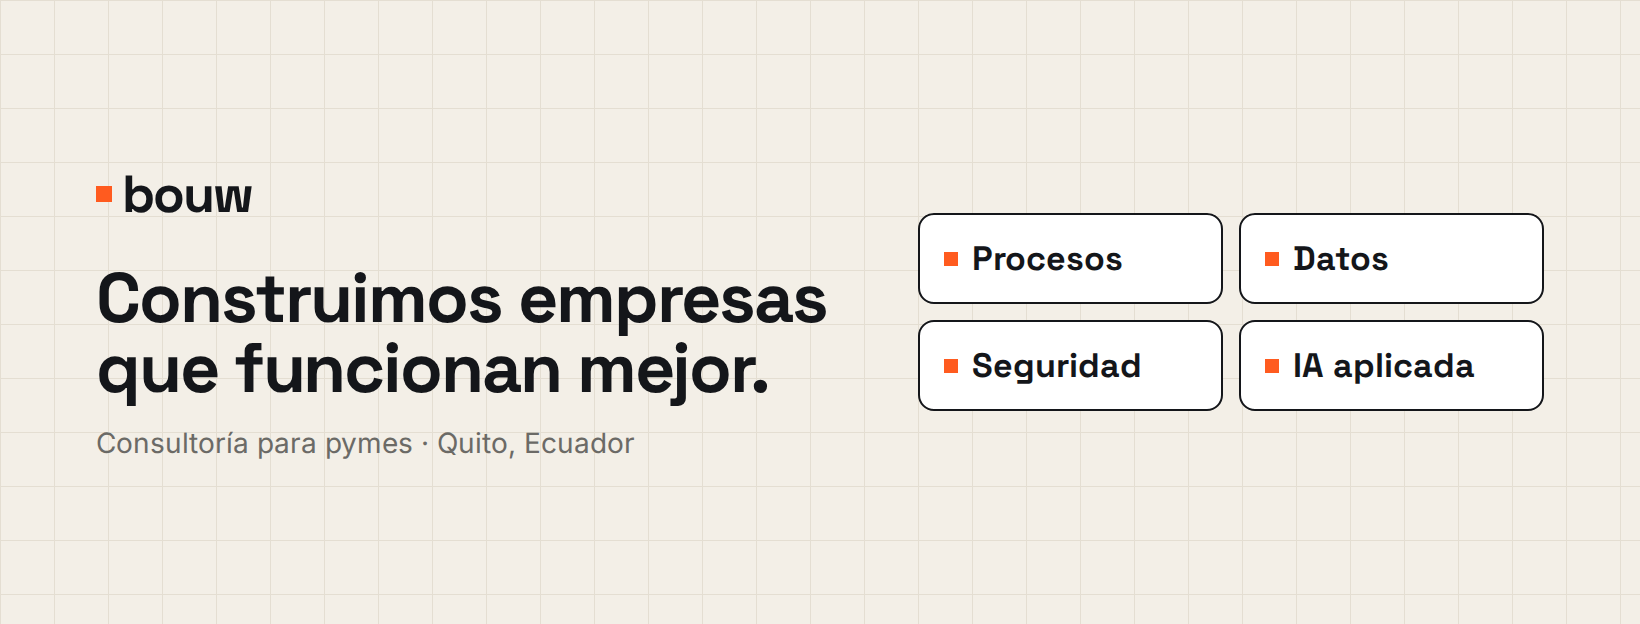
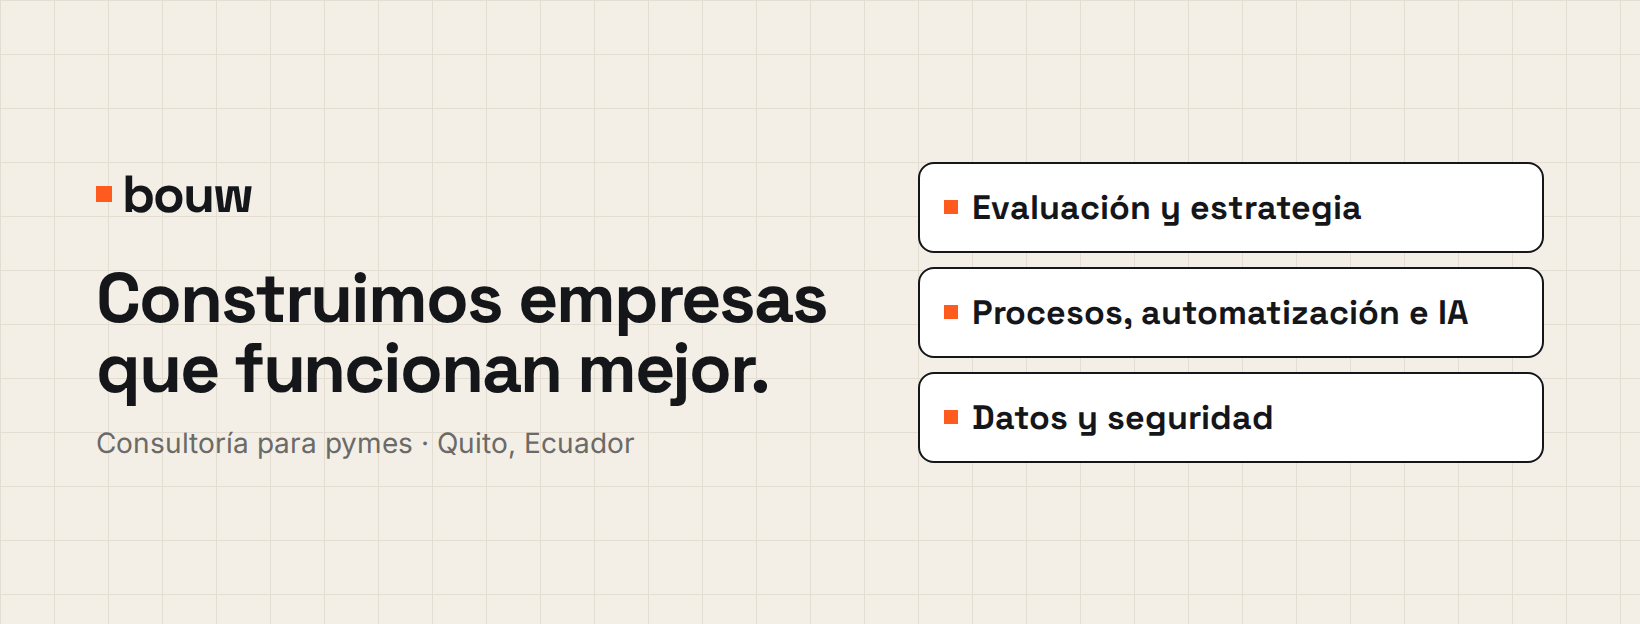
Define Bouw's three service areas (Hanova-style) and add matching cover and post
Claude-Session: https://claude.ai/code/session_01X9BCiBmUnysFCiinSn9nGn

diff --git a/posts-bouw/posts.html b/posts-bouw/posts.html
@@ -73,12 +73,20 @@ body { background:#888; font-family:"Inter",sans-serif; display:flex; flex-wrap:
 /* portada FB */
 .cover { width:1640px; height:624px; padding:70px 96px; display:grid; grid-template-columns:1.25fr 1fr; gap:40px; align-items:center; background:var(--paper); color:var(--ink); position:relative; overflow:hidden; }
 .cover > * { position:relative; }
-.pillars { display:grid; grid-template-columns:1fr 1fr; gap:16px; }
+.pillars { display:grid; grid-template-columns:1fr; gap:14px; }
 .pillars div { background:#fff; border:2px solid var(--ink); border-radius:16px; padding:22px 24px; font-family:"Space Grotesk"; font-weight:700; font-size:34px; display:flex; align-items:center; gap:14px; }
 .pillars div i { width:14px; height:14px; background:var(--orange); flex:none; }
 
 /* historia */
 .story { width:1080px; height:1920px; padding:140px 88px 160px; }
+
+/* 3 áreas */
+.areas { display:grid; gap:20px; margin-top:52px; }
+.area { display:grid; grid-template-columns:96px 1fr; gap:26px; align-items:start; background:#fff; border:2px solid var(--ink); border-radius:20px; padding:28px 30px; }
+.area .num { width:96px; height:96px; border-radius:18px; background:var(--ink); color:var(--paper); display:grid; place-items:center; font-family:"Space Grotesk"; font-weight:700; font-size:52px; }
+.area:nth-child(2) .num { background:var(--orange); color:var(--ink); }
+.area b { font-family:"Space Grotesk"; font-size:40px; letter-spacing:-0.02em; display:block; line-height:1.05; }
+.area small { font-size:25px; color:var(--muted); display:block; margin-top:10px; line-height:1.35; }
 </style>
 </head>
 <body>
@@ -91,7 +99,7 @@ body { background:#888; font-family:"Inter",sans-serif; display:flex; flex-wrap:
     <p style="font-size:28px;margin-top:22px;max-width:760px;line-height:1.35" class="muted">Consultoría para pymes · Quito, Ecuador</p>
   </div>
   <div class="pillars">
-    <div><i></i>Procesos</div><div><i></i>Datos</div><div><i></i>Seguridad</div><div><i></i>IA aplicada</div>
+    <div><i></i>Evaluación y estrategia</div><div><i></i>Procesos, automatización e IA</div><div><i></i>Datos y seguridad</div>
   </div>
 </section>
 
@@ -100,7 +108,7 @@ body { background:#888; font-family:"Inter",sans-serif; display:flex; flex-wrap:
   <div class="top"><div class="logo"><i></i>bouw</div><span class="tag" style="color:var(--orange)">Quito · Ecuador</span></div>
   <h1 class="h" style="font-size:150px;margin-top:150px">Bouw no vende software.</h1>
   <p style="font-size:44px;line-height:1.25;margin-top:48px;max-width:860px;color:#CFC9BE">Diagnosticamos cómo funciona tu empresa y construimos procesos <span style="color:var(--orange)">más eficientes, medibles y seguros.</span></p>
-  <div class="foot"><span style="color:#A7A39B">Procesos · Datos · Seguridad · IA aplicada</span><span class="cta">Agenda tu diagnóstico</span></div>
+  <div class="foot"><span style="color:#A7A39B">Evaluamos · Diseñamos · Te lo entregamos funcionando</span><span class="cta">Agenda tu evaluación</span></div>
 </section>
 
 <!-- 02 Señales de Excel -->
@@ -243,6 +251,18 @@ body { background:#888; font-family:"Inter",sans-serif; display:flex; flex-wrap:
     <span class="cta" style="font-size:44px;padding:30px 56px">Escríbenos: DIAGNÓSTICO</span>
     <span style="font-size:32px;font-weight:600">Quito · Procesos · Datos · Seguridad</span>
   </div>
+</section>
+
+<!-- 09 Tres áreas -->
+<section class="post grid" id="p09-tres-areas">
+  <div class="top"><div class="logo"><i></i>bouw</div><span class="tag" style="color:var(--orange)">Qué hacemos</span></div>
+  <h1 class="h" style="font-size:78px;margin-top:52px">Evaluamos tu empresa y te entregamos soluciones que funcionan.</h1>
+  <div class="areas">
+    <div class="area"><span class="num">1</span><div><b>Evaluación y estrategia</b><small>Te decimos dónde está el problema y qué hacer primero.</small></div></div>
+    <div class="area"><span class="num">2</span><div><b>Procesos, automatización e IA</b><small>Menos tareas repetitivas, menos errores, menos costo.</small></div></div>
+    <div class="area"><span class="num">3</span><div><b>Datos y seguridad</b><small>Tus números para decidir a tiempo, y tu información protegida.</small></div></div>
+  </div>
+  <div class="foot"><span>No vendemos tecnología. Construimos soluciones.</span><span class="cta">Evaluación gratis</span></div>
 </section>
 
 </body>

diff --git a/BOUW-EN-UNA-PAGINA.md b/BOUW-EN-UNA-PAGINA.md
@@ -1,0 +1,101 @@
+# Bouw en una página
+
+> **Este documento define en qué se centra Bouw.** Todo lo demás (marketing, publicaciones, precios) se alinea con esto.
+
+---
+
+## Quiénes somos
+
+**Bouw es una consultora de transformación digital para empresas de Quito.**
+Somos dos socios: uno de **procesos** (Ing. Industrial) y uno de **informática y ciberseguridad**.
+
+### Nuestra promesa
+> **Evaluamos tu empresa, diseñamos la solución y te la entregamos funcionando: eficiente, medible y segura.**
+
+### Nuestra frase (al estilo Hanova)
+> **"No vendemos tecnología. Construimos soluciones que hacen que tu empresa funcione mejor."**
+> (*bouw* = construir)
+
+---
+
+## Nuestras 3 áreas
+
+### 1. Evaluación y estrategia
+**"Evaluamos tu empresa y te decimos dónde está el problema y qué hacer primero."**
+Analizamos cómo trabaja tu empresa hoy (procesos, sistemas, datos y seguridad) para encontrar dónde se pierde tiempo, dinero o información, y te entregamos un plan claro con prioridades.
+- **Entregas:** diagnóstico, mapa de procesos, hoja de ruta priorizada (qué hacer primero, cuánto cuesta, qué ganas).
+- **Lo lideran:** los dos socios.
+
+### 2. Procesos, automatización e IA
+**"Rediseñamos y automatizamos tus procesos para que tu equipo trabaje menos en lo repetitivo y mejor en lo que importa."**
+Eliminamos pasos innecesarios, doble digitación y tareas manuales. Aplicamos inteligencia artificial donde de verdad ayuda: **no reemplaza a tu equipo, lo hace más productivo.**
+- **Entregas:** procesos rediseñados y documentados, flujos automáticos, IA aplicada a tareas concretas, capacitación del equipo.
+- **Lo lidera:** el socio de procesos (Ing. Industrial).
+
+### 3. Datos y seguridad
+**"Convertimos tus datos en decisiones y los protegemos."**
+Ponemos tus números en tableros claros para decidir a tiempo, y protegemos tu información: accesos, respaldos, continuidad ante fallas y cumplimiento de la Ley de Protección de Datos.
+- **Entregas:** tableros e indicadores, evaluación de seguridad, respaldos y plan de continuidad, políticas de uso de información.
+- **Lo lidera:** el socio de informática y ciberseguridad.
+
+---
+
+## Cómo trabajamos
+
+```
+EVALUAR  →  DISEÑAR  →  IMPLEMENTAR  →  ACOMPAÑAR
+Entendemos   Proponemos    Lo construimos   Medimos resultados
+tu empresa   la solución    y lo dejamos     y ajustamos
+             que conviene   funcionando      mes a mes
+```
+
+- **Primero evaluamos, después proponemos.** Nunca vendemos una herramienta antes de entender el problema.
+- **Somos independientes:** no vendemos software de ninguna marca. Elegimos lo que le conviene a tu empresa.
+- **La seguridad va incluida** en todo lo que implementamos.
+
+---
+
+## Para quién
+Pequeñas y medianas empresas de Quito (de 10 a 200 personas) de **cualquier sector** que:
+- trabajan con Excel, papeles y WhatsApp, y sienten que se les va el tiempo en tareas repetitivas;
+- tienen un sistema que no aprovechan;
+- no ven sus números a tiempo;
+- nunca han revisado la seguridad de su información.
+
+---
+
+## Lo que NO hacemos
+- No vendemos software ni licencias.
+- No hacemos marketing en redes ni publicidad para clientes.
+- No desarrollamos aplicaciones a medida desde cero: si hace falta, lo coordinamos con un aliado.
+
+---
+
+## Hanova → Bouw (de dónde sale esto)
+
+| Hanova Consulting (Monterrey) | Bouw (Quito) |
+|---|---|
+| Consultoría estratégica y evaluación tecnológica: *"Analizamos tu negocio para identificar oportunidades de mejora y definir dónde la digitalización genera mayor impacto"* | **1. Evaluación y estrategia** |
+| Optimización y automatización de procesos: *"Rediseñamos y automatizamos tus procesos para eliminar fricciones, reducir costos y ganar eficiencia operativa"* | **2. Procesos, automatización e IA** |
+| Inteligencia artificial: *"No reemplazamos a tu equipo, lo hacemos extraordinario"* | (dentro del área 2) |
+| Inteligencia de negocio: *"Convertimos tus datos en decisiones"* | **3. Datos y seguridad** |
+| Ciberseguridad industrial (portafolio anterior) | (dentro del área 3: es la fortaleza de tu socio) |
+| "No vendemos tecnología, diseñamos estrategias digitales" | "No vendemos tecnología. Construimos soluciones que hacen que tu empresa funcione mejor" |
+| "Tus socios en transformación digital" · 2–10 personas · fundada en 2021 | Dos socios · Quito · 2026 |
+
+Hanova tiene 4 áreas. Bouw las resume en 3 porque la IA vive dentro de los procesos y porque su diferencia es juntar **datos + seguridad**, que es la especialidad de tu socio.
+
+---
+
+## Cómo se usa esto en el marketing
+- **Toda publicación cae en una de las 3 áreas** (o en "quiénes somos").
+- **Cierre de todo mensaje:** *"Agenda una evaluación gratuita."*
+- **Web, Facebook, Instagram y LinkedIn** muestran las mismas 3 áreas, con las mismas frases.
+- Pieza gráfica lista: `posts-bouw/png/p09-tres-areas.png`.
+
+---
+
+## Fuentes
+- [Hanova, sitio en español](https://hanova.mx/es/) · [Servicios](https://www.hanova.mx/servicios.html) · [Services (EN)](https://hanova.mx/services.html) · [Nosotros (EN)](https://hanova.mx/en/nosotros/) · [Contacto](https://hanova.mx/en/contacto/) · [LinkedIn](https://mx.linkedin.com/company/hanova-consulting) · [ZoomInfo](https://www.zoominfo.com/c/hanova-consulting/1311623585)
+
+> Mi entorno no pudo abrir el sitio de Hanova directamente. Las frases citadas vienen de los resúmenes de búsqueda de su sitio.

diff --git a/posts-bouw/README.md b/posts-bouw/README.md
@@ -6,6 +6,7 @@ Sistema visual: tinta, papel, naranja + **cuadrícula de plano** como motivo (*b
 | Archivo | Uso | Tamaño |
 |---|---|---|
 | `png/fb-portada.png` | Portada de la página de Facebook | 1640×624 |
+| `png/p09-tres-areas.png` | **Qué hacemos: las 3 áreas.** Publícala primero y fíjala en Facebook | 1080×1350 |
 | `png/p01…p08` | Feed de **Facebook e Instagram** (sirven también en LinkedIn) | 1080×1350 |
 | `png/li-01…li-03` | **Carrusel de LinkedIn** (súbelo como documento PDF o como imágenes) | 1080×1350 |
 | `png/li-04-erp.png` | Publicación de LinkedIn (sirve también en Facebook) | 1080×1350 |
@@ -22,7 +23,7 @@ Sistema visual: tinta, papel, naranja + **cuadrícula de plano** como motivo (*b
 
 | Semana | Facebook (principal) | Instagram | LinkedIn |
 |---|---|---|---|
-| 1 | Portada + **p01 Manifiesto** + **p07 Socios** | p01 + historia | Presentación de los socios desde sus perfiles + p01 |
+| 1 | Portada + **p09 Tres áreas (fijada)** + **p01 Manifiesto** + **p07 Socios** | p01 + historia | Presentación de los socios desde sus perfiles + p01 |
 | 2 | **p02 Señales de Excel** + **p03 Doble digitación** | p02 + historia | **Carrusel li-01/02/03** (indicadores) |
 | 3 | **p04 Método** + **p06 Apagón** | p04 + historia | **li-04 ERP** + p06 |
 | 4 | **p05 Seguridad** + **p08 Mini diagnóstico** | p08 + historia | p05 + p08 |
@@ -130,3 +131,11 @@ Sistema visual: tinta, papel, naranja + **cuadrícula de plano** como motivo (*b
 
 ### Historia · Mini diagnóstico
 Usa el sticker de enlace o "Enviar mensaje" y una encuesta: *"¿Tu empresa vive en Excel? Sí / Un poco"*.
+
+### p09 · Qué hacemos: las 3 áreas (fijar en Facebook)
+> Evaluamos tu empresa y te entregamos soluciones que funcionan. 🧱
+> 1⃣ Evaluación y estrategia: te decimos dónde está el problema y qué hacer primero.
+> 2⃣ Procesos, automatización e IA: menos tareas repetitivas, menos errores, menos costo.
+> 3⃣ Datos y seguridad: tus números para decidir a tiempo, y tu información protegida.
+> No vendemos tecnología. Construimos soluciones que hacen que tu empresa funcione mejor.
+> 📍 Quito · Agenda tu evaluación gratuita por mensaje.

diff --git a/PLAN-MARKETING-BOUW.md b/PLAN-MARKETING-BOUW.md
@@ -1,5 +1,7 @@
 # Plan de marketing de Bouw: el modelo Hanova aplicado a Quito
 
+> 📌 **Definición oficial de Bouw (3 áreas):** [`BOUW-EN-UNA-PAGINA.md`](BOUW-EN-UNA-PAGINA.md). Si algo de este documento la contradice, manda la definición.
+
 > Basado en [`HANOVA-QUITO.md`](HANOVA-QUITO.md). Horizonte: **6 meses** (oct. 2026 – mar. 2027).
 > Principio: una consultora B2B **no se vende con publicidad, se vende con confianza.** Hanova creció con marca personal, autoridad, contenido y casos. Bouw hace lo mismo con canales que existen en Quito.
 

diff --git a/HANOVA-QUITO.md b/HANOVA-QUITO.md
@@ -1,5 +1,7 @@
 # Bouw = la Hanova de Quito
 
+> 📌 **Definición oficial de Bouw (3 áreas):** [`BOUW-EN-UNA-PAGINA.md`](BOUW-EN-UNA-PAGINA.md). Si algo de este documento la contradice, manda la definición.
+
 > Objetivo: replicar en Quito el modelo de **Hanova Consulting** (Monterrey), adaptado a su equipo (Ing. Industrial + Ing. en Ciberseguridad + Claude).
 > **Este es el documento principal.** Plan de marketing: [`PLAN-MARKETING-BOUW.md`](PLAN-MARKETING-BOUW.md). Los demás del repositorio quedan como piezas de apoyo (sección 8).
 
